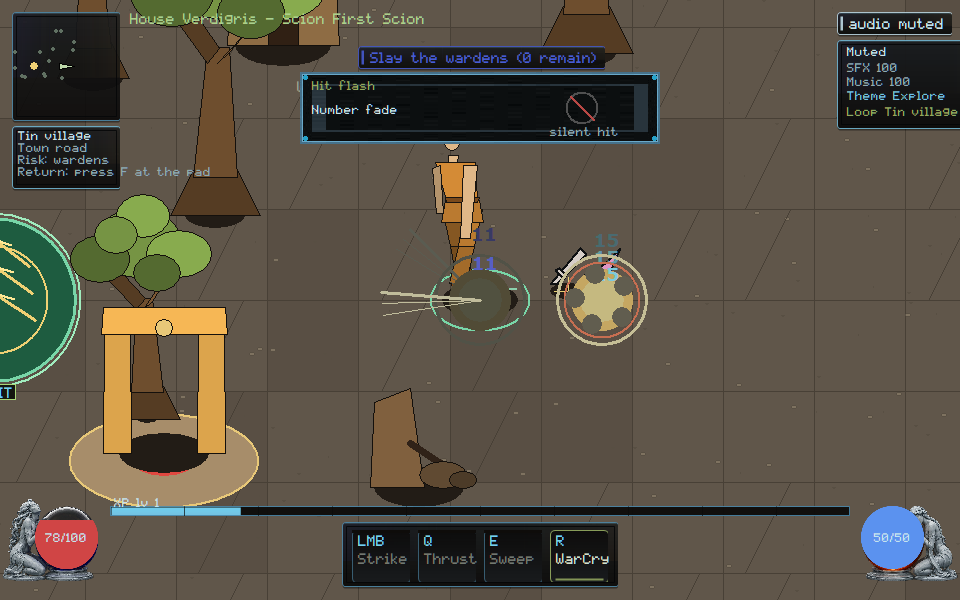
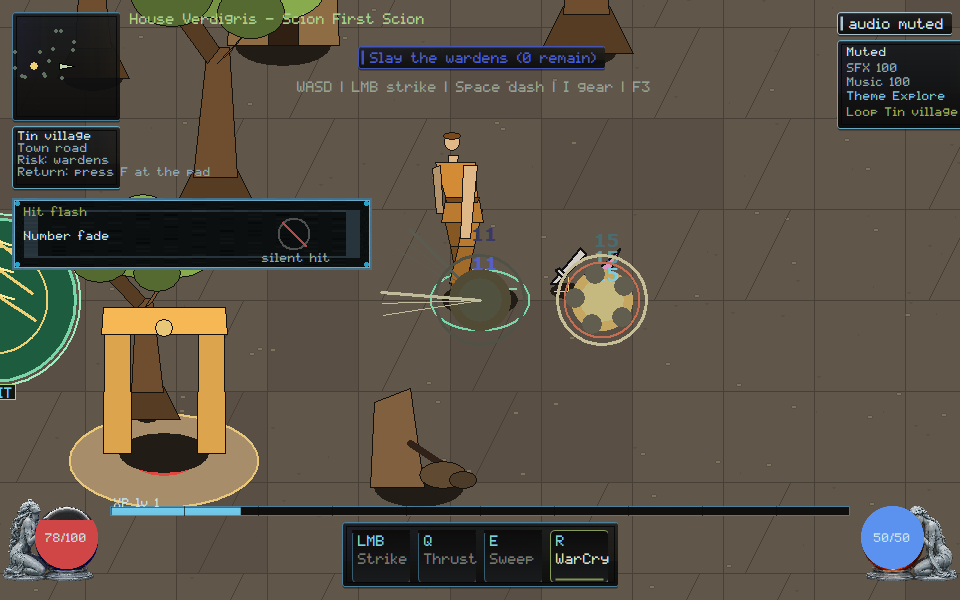
native: park Hit flash off WASD and Tin village so covering combat HUD cannot certify

Changed region(s): [[0.0, 0.33, 0.4062, 0.45], [0.3125, 0.12, 0.6875, 0.24]]

diff --git a/native/client/main.cpp b/native/client/main.cpp
@@ -8435,8 +8435,12 @@ void paint_combat_juice_review_strip(ClientState& state, HDC dc, const RECT& bou
   const int s = hud_scale(static_cast<int>(bounds.bottom));
   const int pane_w = 360 * s;
   const int pane_h = 72 * s;
-  const int left = (static_cast<int>(bounds.right) - pane_w) / 2;
-  const int top = 72 * s;
+  const HudRect parked =
+      park_review_strip(state, static_cast<int>(bounds.right),
+                        static_cast<int>(bounds.bottom), pane_w, pane_h);
+  const int left = parked.x;
+  const int top = parked.y;
+  state.hud_rect_trace.push_back({"combat-juice-strip", parked});
   RECT pane{left, top, left + pane_w, top + pane_h};
   if (!draw_framekit_nine(state.billboards, dc, state.billboards.fk_panel, pane))
     skin::panel(dc, pane, skin::kVerdigris, 235, 8.0f);
@@ -11674,6 +11678,30 @@ int scenario_combat_juice() {
   scenario_check(hit_flash && number_fade,
                  "combat-juice: live HUD names Hit flash and Number fade");
   scenario_check(silent_hit, "combat-juice: live HUD rejects silent hit");
+  {
+    auto trace_find = [](const ClientState& s,
+                         const char* label) -> const HudRect* {
+      for (const auto& entry : s.hud_rect_trace)
+        if (entry.first == label) return &entry.second;
+      return nullptr;
+    };
+    const HudRect* strip = trace_find(state, "combat-juice-strip");
+    const HudRect* ctrl = trace_find(state, "controls");
+    const HudRect* objective = trace_find(state, "objective");
+    const HudRect* route = trace_find(state, "route-card");
+    const HudRect* life = trace_find(state, "orb-life");
+    const bool covers =
+        (strip && ctrl && hud_rects_overlap(*strip, *ctrl)) ||
+        (strip && objective && hud_rects_overlap(*strip, *objective)) ||
+        (strip && route && hud_rects_overlap(*strip, *route)) ||
+        (strip && life && hud_rects_overlap(*strip, *life));
+    scenario_check(
+        vector_art::juice_strip_covers_hud_fails_review(true),
+        "combat-juice: covering WASD, the objective, Tin village, or Life is the anti-pattern");
+    scenario_check(
+        !vector_art::juice_strip_covers_hud_fails_review(covers),
+        "combat-juice: Hit flash stays off WASD, the objective, Tin village, and Life");
+  }
 
   // Number lifetime (~600ms = 12 ticks): present right after the killing blow,
   // still visible ~300ms in, gone after ~650ms. No further damage once dead.

diff --git a/native/client/vector_art.hpp b/native/client/vector_art.hpp
@@ -470,6 +470,7 @@ inline const char* owner_jointed_warden_label() { return "Jointed warden"; }
 inline const char* owner_snout_claws_label() { return "Snout claws"; }
 inline const char* owner_hit_flash_label() { return "Hit flash"; }
 inline const char* owner_number_fade_label() { return "Number fade"; }
+inline bool juice_strip_covers_hud_fails_review(bool overlap) { return overlap; }
 
 inline void lurker(HDC dc, int cx, int base_y, int height_px, const Style& style,
                    const Pose& pose) {

diff --git a/docs/execution/CROSSWALK.md b/docs/execution/CROSSWALK.md
@@ -42,7 +42,7 @@ Cursor evidence notes.
 | VG-UI-007 | extend | TASK-0159 INTEGRATED, 0118 READY, 0207; `hud-pane-readability` at 960/1366/3440 + tree/character keep-out + `hud-scale-floor` + live window; TASK-0159 folder capture cannot certify; clipped C or Esc closes cannot certify; clipped I or Esc closes gear footer cannot certify; clipped DEF/LVL cannot certify; VG-UI-006 Owner Demo not duplicated |
 | VG-UI-008 | new | XInput tick path + glyphs (`pad-path`); not mouse emulation |
 | VG-ART-001/002/004 | extend | TASK-0141 INTEGRATED — village kit + collision-proxy ops (`kit-chunk`); not artist-local collision |
-| VG-ART-003/006 | extend | TASK-0122 INTEGRATED; 0173/0174 READY; 0186/0187 BRIDGE_PREP — Cursor paints melee **poses** (VG-ART-003) and WarCry **weave labels** plus Phase A spawn/fade (VG-ART-006) without taking TASK-0173 models or re-speccing TASK-0108 |
+| VG-ART-003/006 | extend | TASK-0122 INTEGRATED; 0173/0174 READY; 0186/0187 BRIDGE_PREP — Cursor paints melee **poses** (VG-ART-003) and WarCry **weave labels** plus Phase A spawn/fade (VG-ART-006) without taking TASK-0173 models or re-speccing TASK-0108; Hit flash stays off WASD/objective/Tin village/Life |
 | VG-ART-005 | extend | TASK-0182 AUTO_RELEASE, 0184; `held-item` world attachment + `loot-to-bank` pickup-to-equip hold; paper-doll seat alone cannot pass; World hold / Unarmed first stay off WASD, the objective, Tin village, and Life |
 | VG-ART-007/008 | extend | TASK-0206/0205/0207 — Owner Demo, do not duplicate |
 | VG-GPU-001 | new | isolated software quad (`gpu-sample`); not a D3D-only window |
@@ -190,9 +190,11 @@ camera contract, and a sliding kit cannot certify pan. Scenarios
 Evidence `docs/execution/evidence/VG-ART-001.json`.
 VG-ART-003: windup/active/recovery/cancel silhouettes on Strike poses.
 Idle still cannot certify the family. Frame count alone cannot pass.
-`combat-juice` owner strip paints Hit flash / Number fade. Silent hit
-cannot certify readable contact. Scenarios `attack-poses` /
-`combat-juice`. Evidence `docs/execution/evidence/VG-ART-003.json`.
+`combat-juice` owner strip paints Hit flash / Number fade and parks off
+WASD, the objective, Tin village, and Life. Covering those combat
+surfaces cannot certify. Silent hit cannot certify readable contact.
+Scenarios `attack-poses` / `combat-juice`. Evidence
+`docs/execution/evidence/VG-ART-003.json`.
 VG-ART-002: bronze/stone albedo+rim maps with SPDX CC0; magenta fill
 cannot ship. Owner strip paints Bronze stone / Cooked CC0. Village kit
 uses the family. Scenario `bronze-stone`. Evidence

diff --git a/docs/execution/CROSSWALK_REGISTRY.md b/docs/execution/CROSSWALK_REGISTRY.md
@@ -129,7 +129,7 @@ not implemented here.
 | VG-GPU-008 | G3 | new | gpu-recover |
 | VG-ART-001 | G1 | extend | visual-target in-game sheet; first-fight jointed warden; zoom-invariance uniform pan; move-and-camera kit lock |
 | VG-ART-002 | G2 | extend | bronze-stone family |
-| VG-ART-003 | G2 | extend | attack-poses; not TASK-0108 |
+| VG-ART-003 | G2 | extend | attack-poses; combat-juice Hit flash stays off WASD/objective/Tin village/Life; not TASK-0108 |
 | VG-ART-004 | G2 | extend | kit-chunk: hut, ruin, fountain, gate in spawn capture |
 | VG-ART-005 | G3 | extend | held-item world attachment; loot-to-bank unarmed first; paper-doll seat alone cannot pass; World hold stays off WASD/objective/Tin village/Life |
 | VG-ART-006 | G3 | extend | weave-vfx; animation-vfx-phase-a spawn once; not TASK-0108 |

diff --git a/orchestration/CURSOR_KIMI_LANES.md b/orchestration/CURSOR_KIMI_LANES.md
@@ -1055,5 +1055,16 @@ Please move off that branch before taking a new native path.
   Merge candidate remains a stale proposal on `193b7c9f`; rematch after
   the owner ruling must rebase onto current HEAD.
 
+## Cursor reply (2026-09-06, Hit flash off WASD and Tin village)
+
+- **Lease:** `main.cpp` still **ACTIVE**. `remote_session.cpp` stays
+  **RELEASED**. Do not re-spec TASK-0108 core/wire (`3b929637`).
+- **Landed this push:** VG-ART-003/007 — Hit flash parks off WASD, the
+  objective, Tin village, and Life; silent hit still rejected. TASK-0173
+  models stay yours. Captures viewed. Not Owner Demo.
+- **Stay off** `native/client/main.cpp` and `docs/execution/**`. SEC/CORE
+  remain yours. GOV-002 still unstamped.
+
+
 
 

diff --git a/docs/rebuild/HANDOFF.md b/docs/rebuild/HANDOFF.md
@@ -1,5 +1,13 @@
 # Native reconstitution handoff
 
+## 2026-09-06 — Hit flash off WASD and Tin village (Cursor)
+
+- VG-ART-003 / VG-UI-007: Hit flash / Number fade parks off WASD, the
+  objective, Tin village, and Life. Covering those combat surfaces cannot
+  certify. Silent hit still cannot certify. TASK-0173 models stay Kimi.
+- Scenario `combat-juice` PASS. Capture viewed. Not Owner Demo. Not
+  TASK-0108.
+
 ## 2026-09-06 — World hold off WASD and Tin village (Cursor)
 
 - VG-ART-005 / VG-UI-007: World hold and Unarmed first park below the
